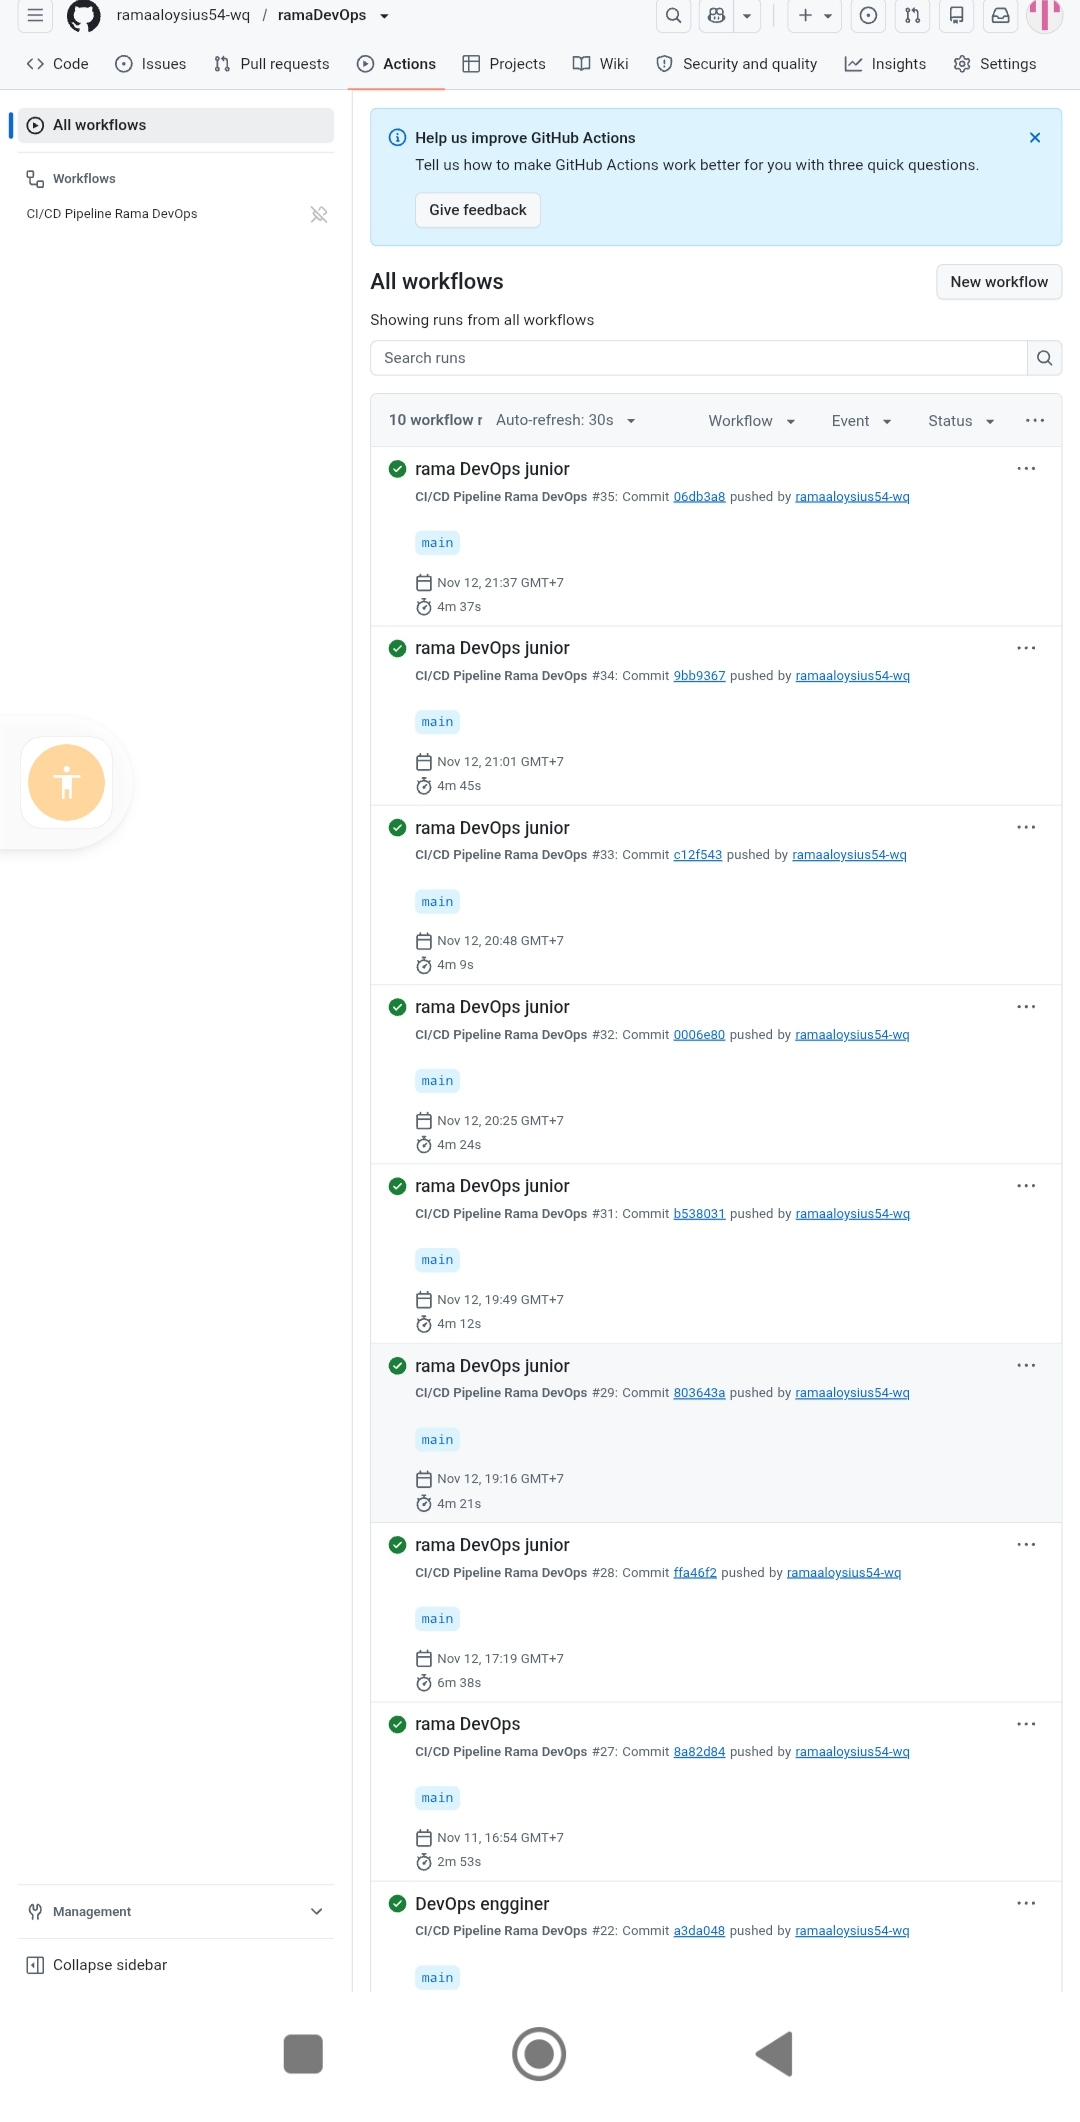
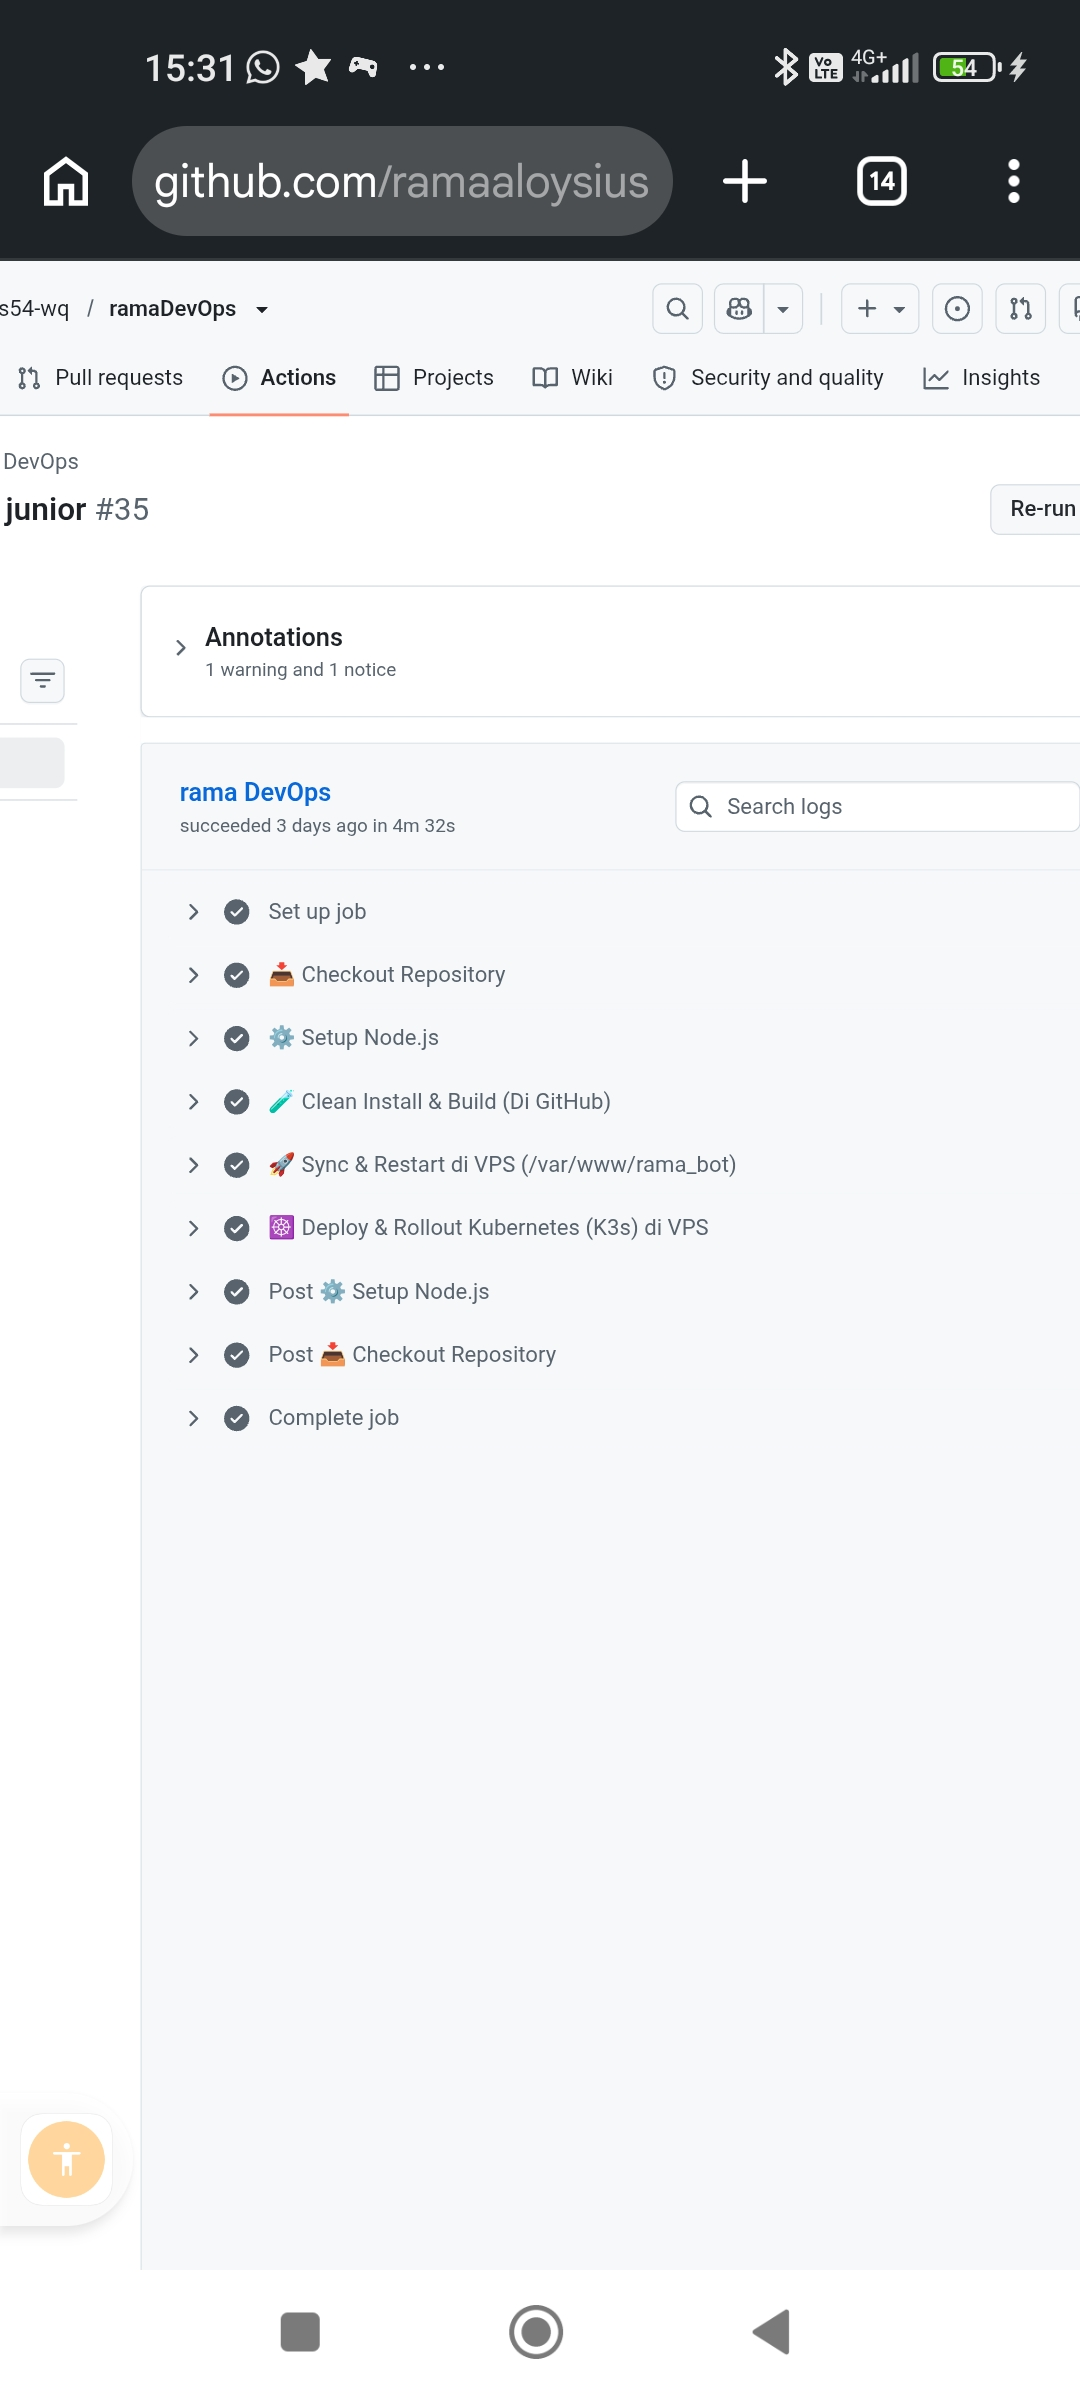
update code

diff --git a/data/profile.ts b/data/profile.ts
@@ -5,7 +5,7 @@ export const profileData = {
   badge: "Junior DevOps Engineer | Web Developer",
   heroHeading: "Building Reliable Infrastructure & Modern Web Applications.",
   heroDescription:
-    "Saya Muhammad Syafiq Ramadani, seorang Software Engineering graduate yang memiliki ketertarikan pada pengembangan website, otomatisasi infrastruktur, containerization, dan cloud-native technologies.",
+    "Saya Muhammad Syafiq Ramadani, seorang DevOps engineering yang memiliki ketertarikan pada pengembangan website, otomatisasi infrastruktur, containerization, dan cloud-native technologies.",
   location: "Based in Indonesia",
   roles: ["Junior DevOps Engineer", "Web Developer"],
   avatar: "/images/profile.jpg",

diff --git a/components/Hero.tsx b/components/Hero.tsx
@@ -139,7 +139,7 @@ export default function Hero() {
               <div className="absolute -bottom-2 right-2 sm:bottom-2 sm:right-2 px-3.5 py-2 rounded-xl bg-navy-900/95 border border-slate-700/80 shadow-soft flex items-center gap-2 backdrop-blur-md">
                 <ShieldCheck className="w-4 h-4 text-sky-400 shrink-0" />
                 <span className="text-xs font-semibold text-slate-200">
-                  DevOps & Web Ready
+                  DevOps
                 </span>
               </div>
             </div>

diff --git a/data/certificates.ts b/data/certificates.ts
@@ -16,12 +16,5 @@ export const certificatesData: CertificateItem[] = [
     image: "/images/certificates/revou-certificate.jpg",
     category: "Digital Marketing",
   },
-  {
-    id: "cert-imde",
-    title: "Digital Marketing Certificate – IMDE (Institut Media Digital Emtek)",
-    issuer: "IMDE (Institut Media Digital Emtek)",
-    year: "Verified Credential",
-    image: "/images/certificates/imde-certificate.jpg",
-    category: "Digital Marketing",
-  },
+
 ];
